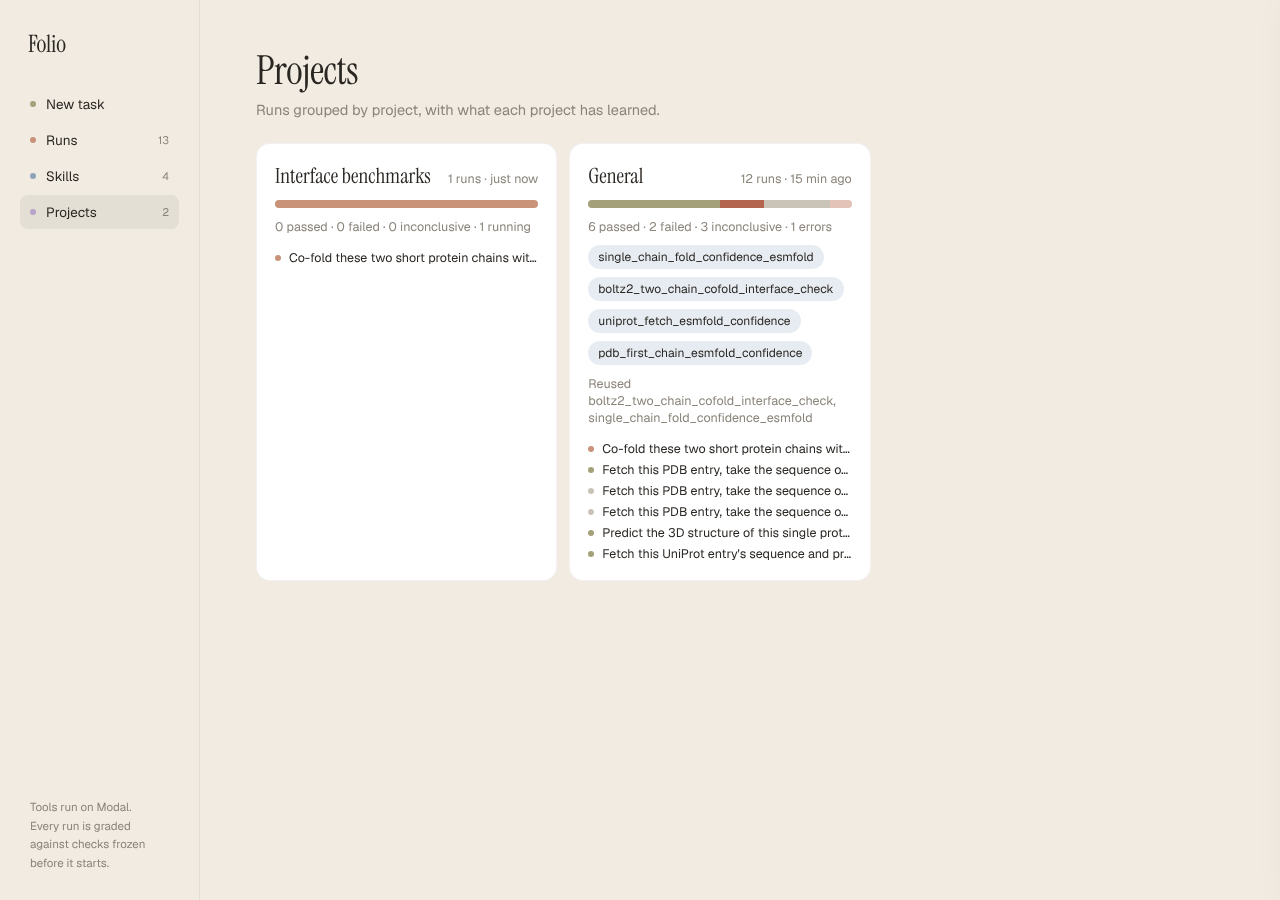
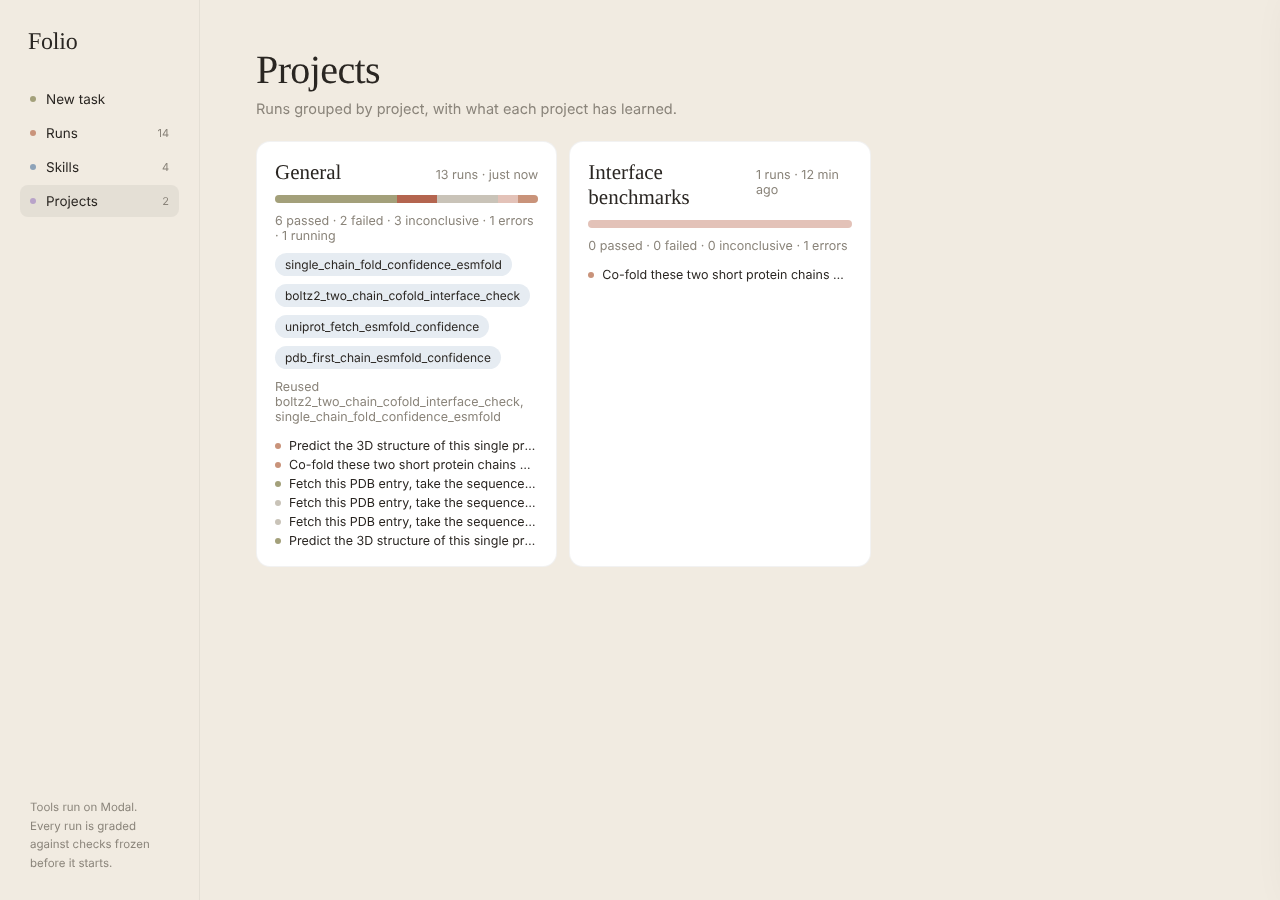
Color experimental structures by chain, clamp long step details, and add screenshots of reports, structures and papers
Screenshots come from the live deployment's real runs: two backfilled
reports, the ESMFold and Boltz-2 structures in the viewer, the study
distillation, the paper reader, the activity feed, skills with tool
knowledge, skill invocations and projects.

diff --git a/labloop/web/index.html b/labloop/web/index.html
@@ -108,7 +108,8 @@ details summary{cursor:pointer;font-size:12.5px;color:#4a443c}details p{font-siz
 .tabs{display:flex;gap:4px;border-bottom:1px solid var(--line2);margin-bottom:2px;overflow-x:auto}
 .tabs button{all:unset;cursor:pointer;font-size:13px;padding:8px 12px;color:var(--muted);border-bottom:2px solid transparent;margin-bottom:-1px;white-space:nowrap}
 .tabs button.on{color:var(--ink);border-bottom-color:var(--ink)}
-.paperlink{cursor:pointer}.paperlink:hover .ot{text-decoration:underline}
+[data-paper]{cursor:pointer}[data-paper]:hover .ot{text-decoration:underline}
+.sdetail.clamp{display:-webkit-box;-webkit-line-clamp:3;-webkit-box-orient:vertical;overflow:hidden}
 pre{white-space:pre-wrap;overflow-wrap:anywhere;font-size:12px;background:var(--soft);padding:12px;border-radius:10px;margin:0}
 @media (max-width:820px){
   .app{flex-direction:column}
@@ -304,7 +305,7 @@ function renderSteps(d){
       <span class="line" style="background:${last?'transparent':state==='done'?'var(--olive)':'rgba(42,38,34,.12)'}"></span></div>
       <div class="sbody" style="opacity:${state==='todo'||state==='skipped'?.45:1}">
         <div class="shead"><span class="sname">${esc(p.name)}</span><span class="sagent">${esc(p.key==='run'?tools:p.agent)}</span><span class="stime" ${state==='active'&&seen[p.key]?`data-since="${esc(seen[p.key].at)}"`:''}>${esc(state==='active'&&seen[p.key]?since(seen[p.key].at):time)}</span></div>
-        <div class="sdetail">${esc(detail)}</div>
+        <div class="sdetail ${state==='active'?'':'clamp'}" title="${esc(detail)}">${esc(detail)}</div>
         ${info.tag ? `<span class="tag"><span class="dot" style="width:5px;height:5px;background:var(--slate)"></span>${esc(info.tag)}</span>` : ''}
       </div></div>`;
   }).join('');
@@ -369,12 +370,15 @@ function renderPapers(d){
 function renderStructures(d){
   const ex = (d.experiments||[]).filter(e => e.status==='ok' && e.result && e.result.artifacts && e.result.artifacts.structure);
   if (!ex.length) return '';
-  return ex.map(e => { const key = `${d.run_id}:${e.step_id}`, style = S.molStyle[key] || 'confidence';
+  return ex.map(e => { const key = `${d.run_id}:${e.step_id}`, predicted = PREDICTORS.has(e.tool);
+    if (!predicted) S.molStyle[key] = 'chain';
+    const style = S.molStyle[key] || 'confidence';
     return `<div class="card" style="display:flex;flex-direction:column;gap:10px"><div class="cardhead"><span class="eyebrow">Structure · ${esc(e.step_id)}</span><span class="small muted">${esc(e.tool)}</span></div>
     <div class="mol" data-mol="${esc(key)}" data-path="${esc(e.result.artifacts.structure)}"></div>
-    <div class="molbar" data-molbar="${esc(key)}">${['front','side','top','spin'].map(v=>`<button data-view="${v}">${v}</button>`).join('')}<span style="flex:1"></span>${['confidence','chain'].map(v=>`<button data-color="${v}" class="${style===v?'on':''}">${v}</button>`).join('')}</div>
-    <div class="small muted">Colored by per-residue confidence (blue high, red low) or by chain. Drag to rotate.</div></div>`; }).join('');
+    <div class="molbar" data-molbar="${esc(key)}">${['front','side','top','spin'].map(v=>`<button data-view="${v}">${v}</button>`).join('')}<span style="flex:1"></span>${(predicted ? ['confidence','chain'] : ['chain']).map(v=>`<button data-color="${v}" class="${style===v?'on':''}">${v}</button>`).join('')}</div>
+    <div class="small muted">${predicted ? 'Colored by per-residue confidence (blue high, red low) or by chain.' : 'Experimental structure, colored by chain; its B-factors are not a confidence score.'} Drag to rotate.</div></div>`; }).join('');
 }
+const PREDICTORS = new Set(['esmfold','boltz2','chai1','colabfold','protenix','alphafold3']);
 let molLib = null;
 function load3Dmol(){ if (!molLib) molLib = new Promise((ok, bad) => { const sc = document.createElement('script'); sc.src = 'https://cdn.jsdelivr.net/npm/3dmol@2.5.5/build/3Dmol-min.js'; sc.onload = () => ok(window.$3Dmol); sc.onerror = bad; document.head.appendChild(sc); }); return molLib; }
 function styleMol(v, key){
@@ -411,7 +415,7 @@ async function mountStructures(){
 }
 function paperAttrs(p, corpus){
   const file = p.file && corpus ? `${corpus}/${p.file}` : '';
-  return `class="paperlink" data-paper="${esc(JSON.stringify({title:p.title, doi:p.doi, year:p.year, citations:p.citations, pmcid:p.pmcid, text_source:p.text_source, file}))}"`;
+  return `data-paper="${esc(JSON.stringify({title:p.title, doi:p.doi, year:p.year, citations:p.citations, pmcid:p.pmcid, text_source:p.text_source, file}))}"`;
 }
 async function openPaper(p){
   const d = $('#drawer'); d.classList.add('open');
@@ -447,7 +451,7 @@ function renderOutputs(d){
   const items = ex.map(e => {
     const sc = (e.result && e.result.scores) || {}; const art = (e.result && e.result.artifacts) || {};
     const scoreText = Object.entries(sc).map(([k,v])=>`${k} ${fmtNum(v)}`).join(' · ');
-    return `<div class="out"><div class="ot">${esc(e.step_id)} · ${esc(e.tool)}</div><div class="om">${esc(scoreText||'no scores')}</div>${art.structure?`<div class="om">${esc(art.structure)}</div>`:''}</div>`;
+    return `<div class="out"><div class="ot">${esc(e.step_id)} · ${esc(e.tool)}</div><div class="om">${esc(scoreText||'no scores')}</div></div>`;
   });
   if (!items.length) return '';
   return `<div class="card" style="display:flex;flex-direction:column;gap:14px"><div class="cardhead"><span class="eyebrow">Step outputs</span><span class="small muted">${items.length}</span></div>
